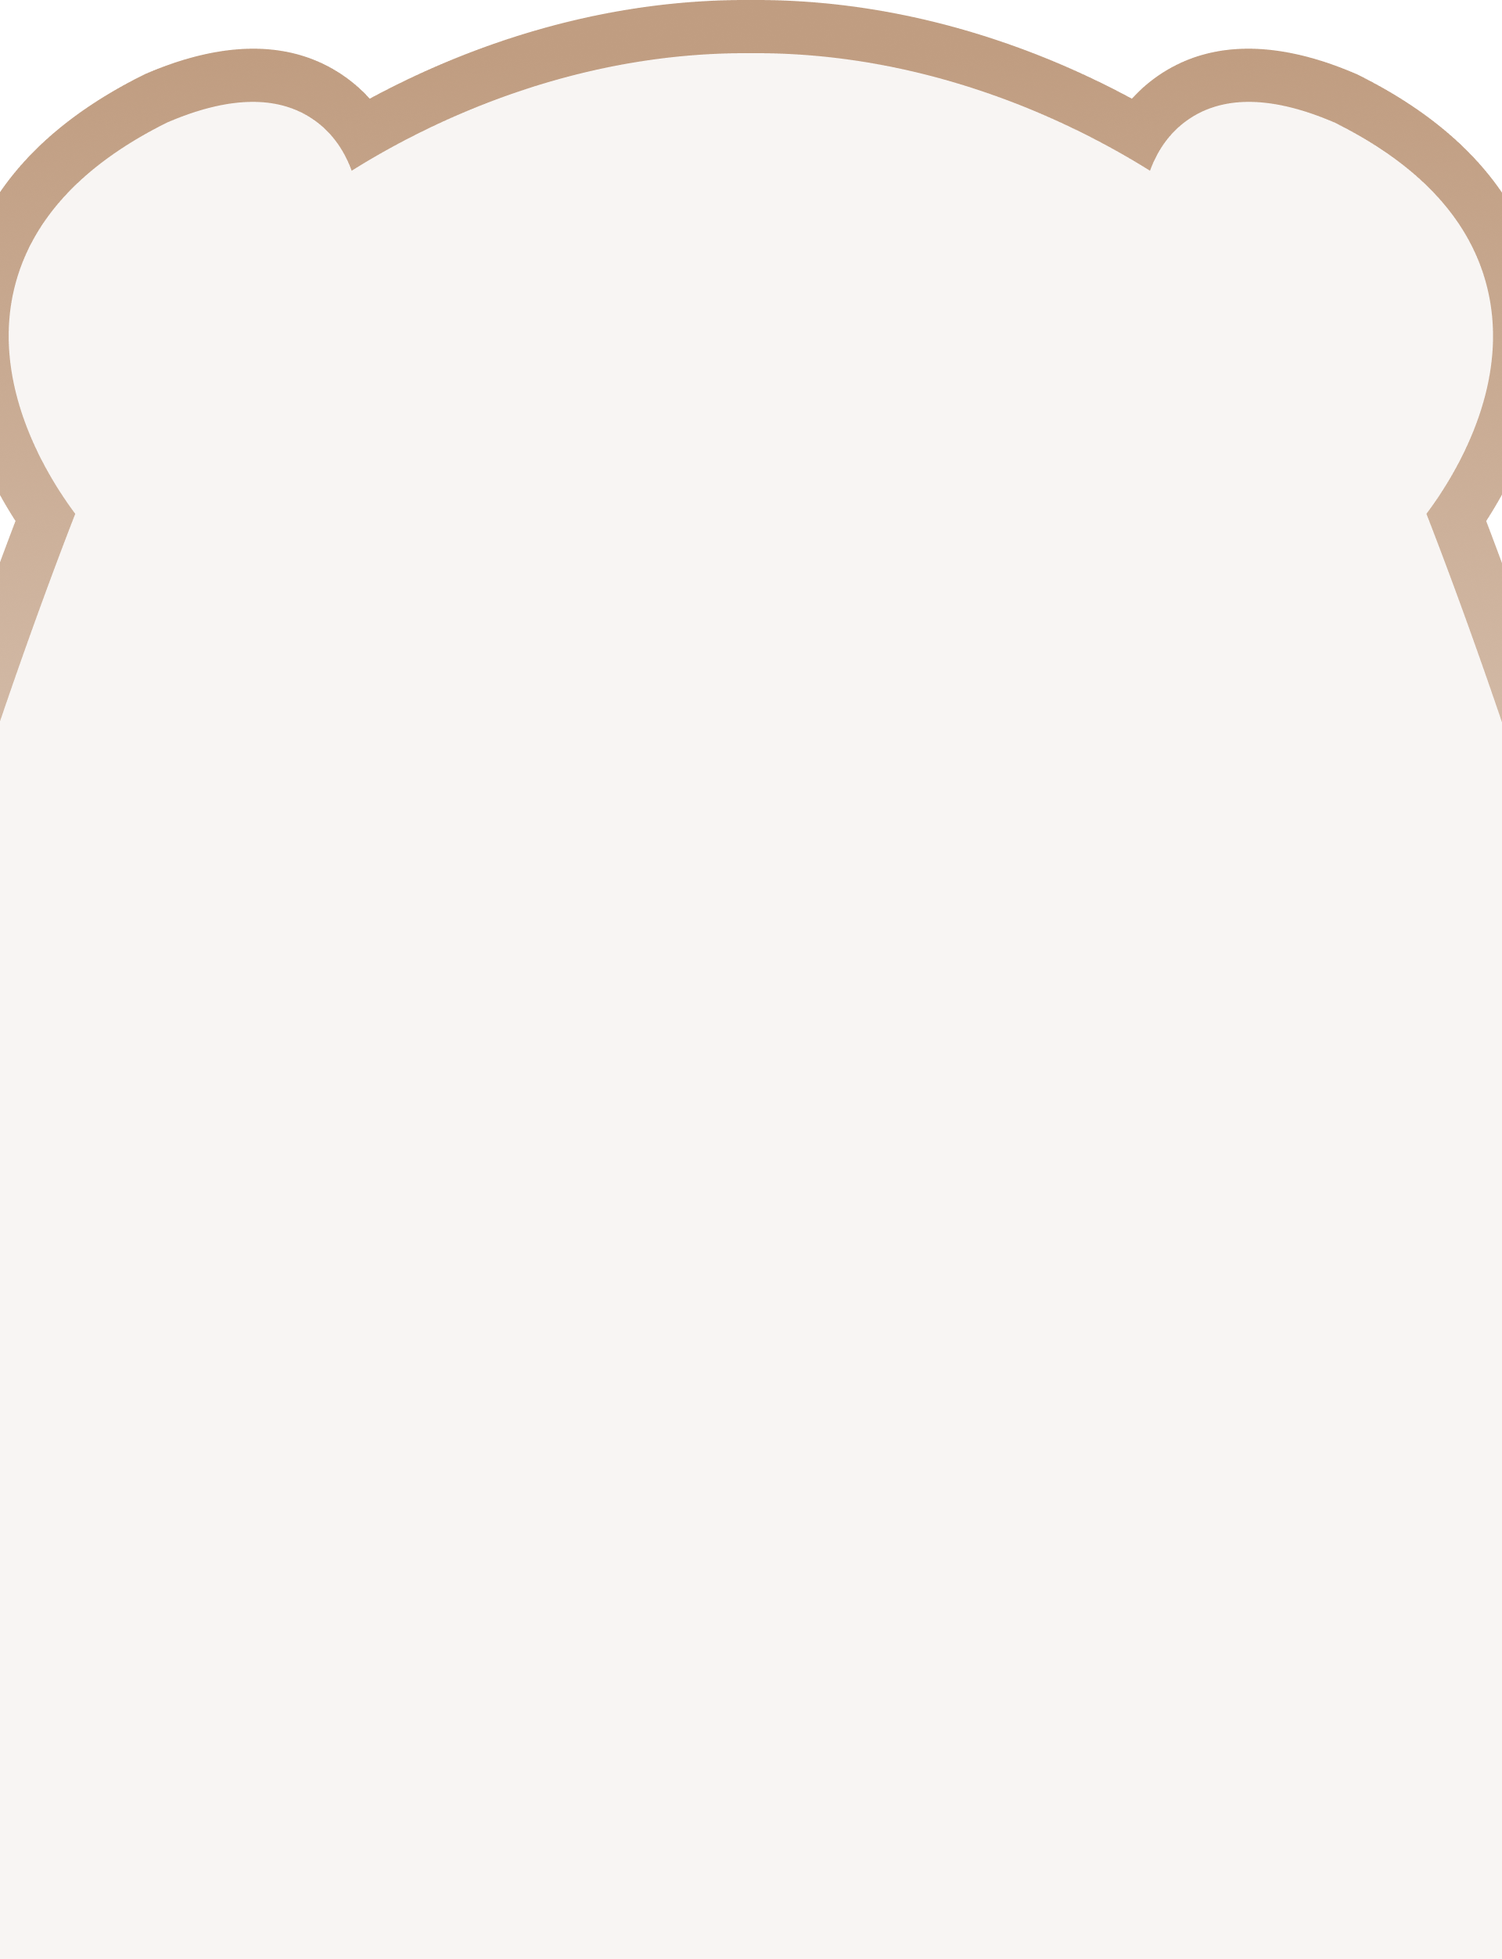
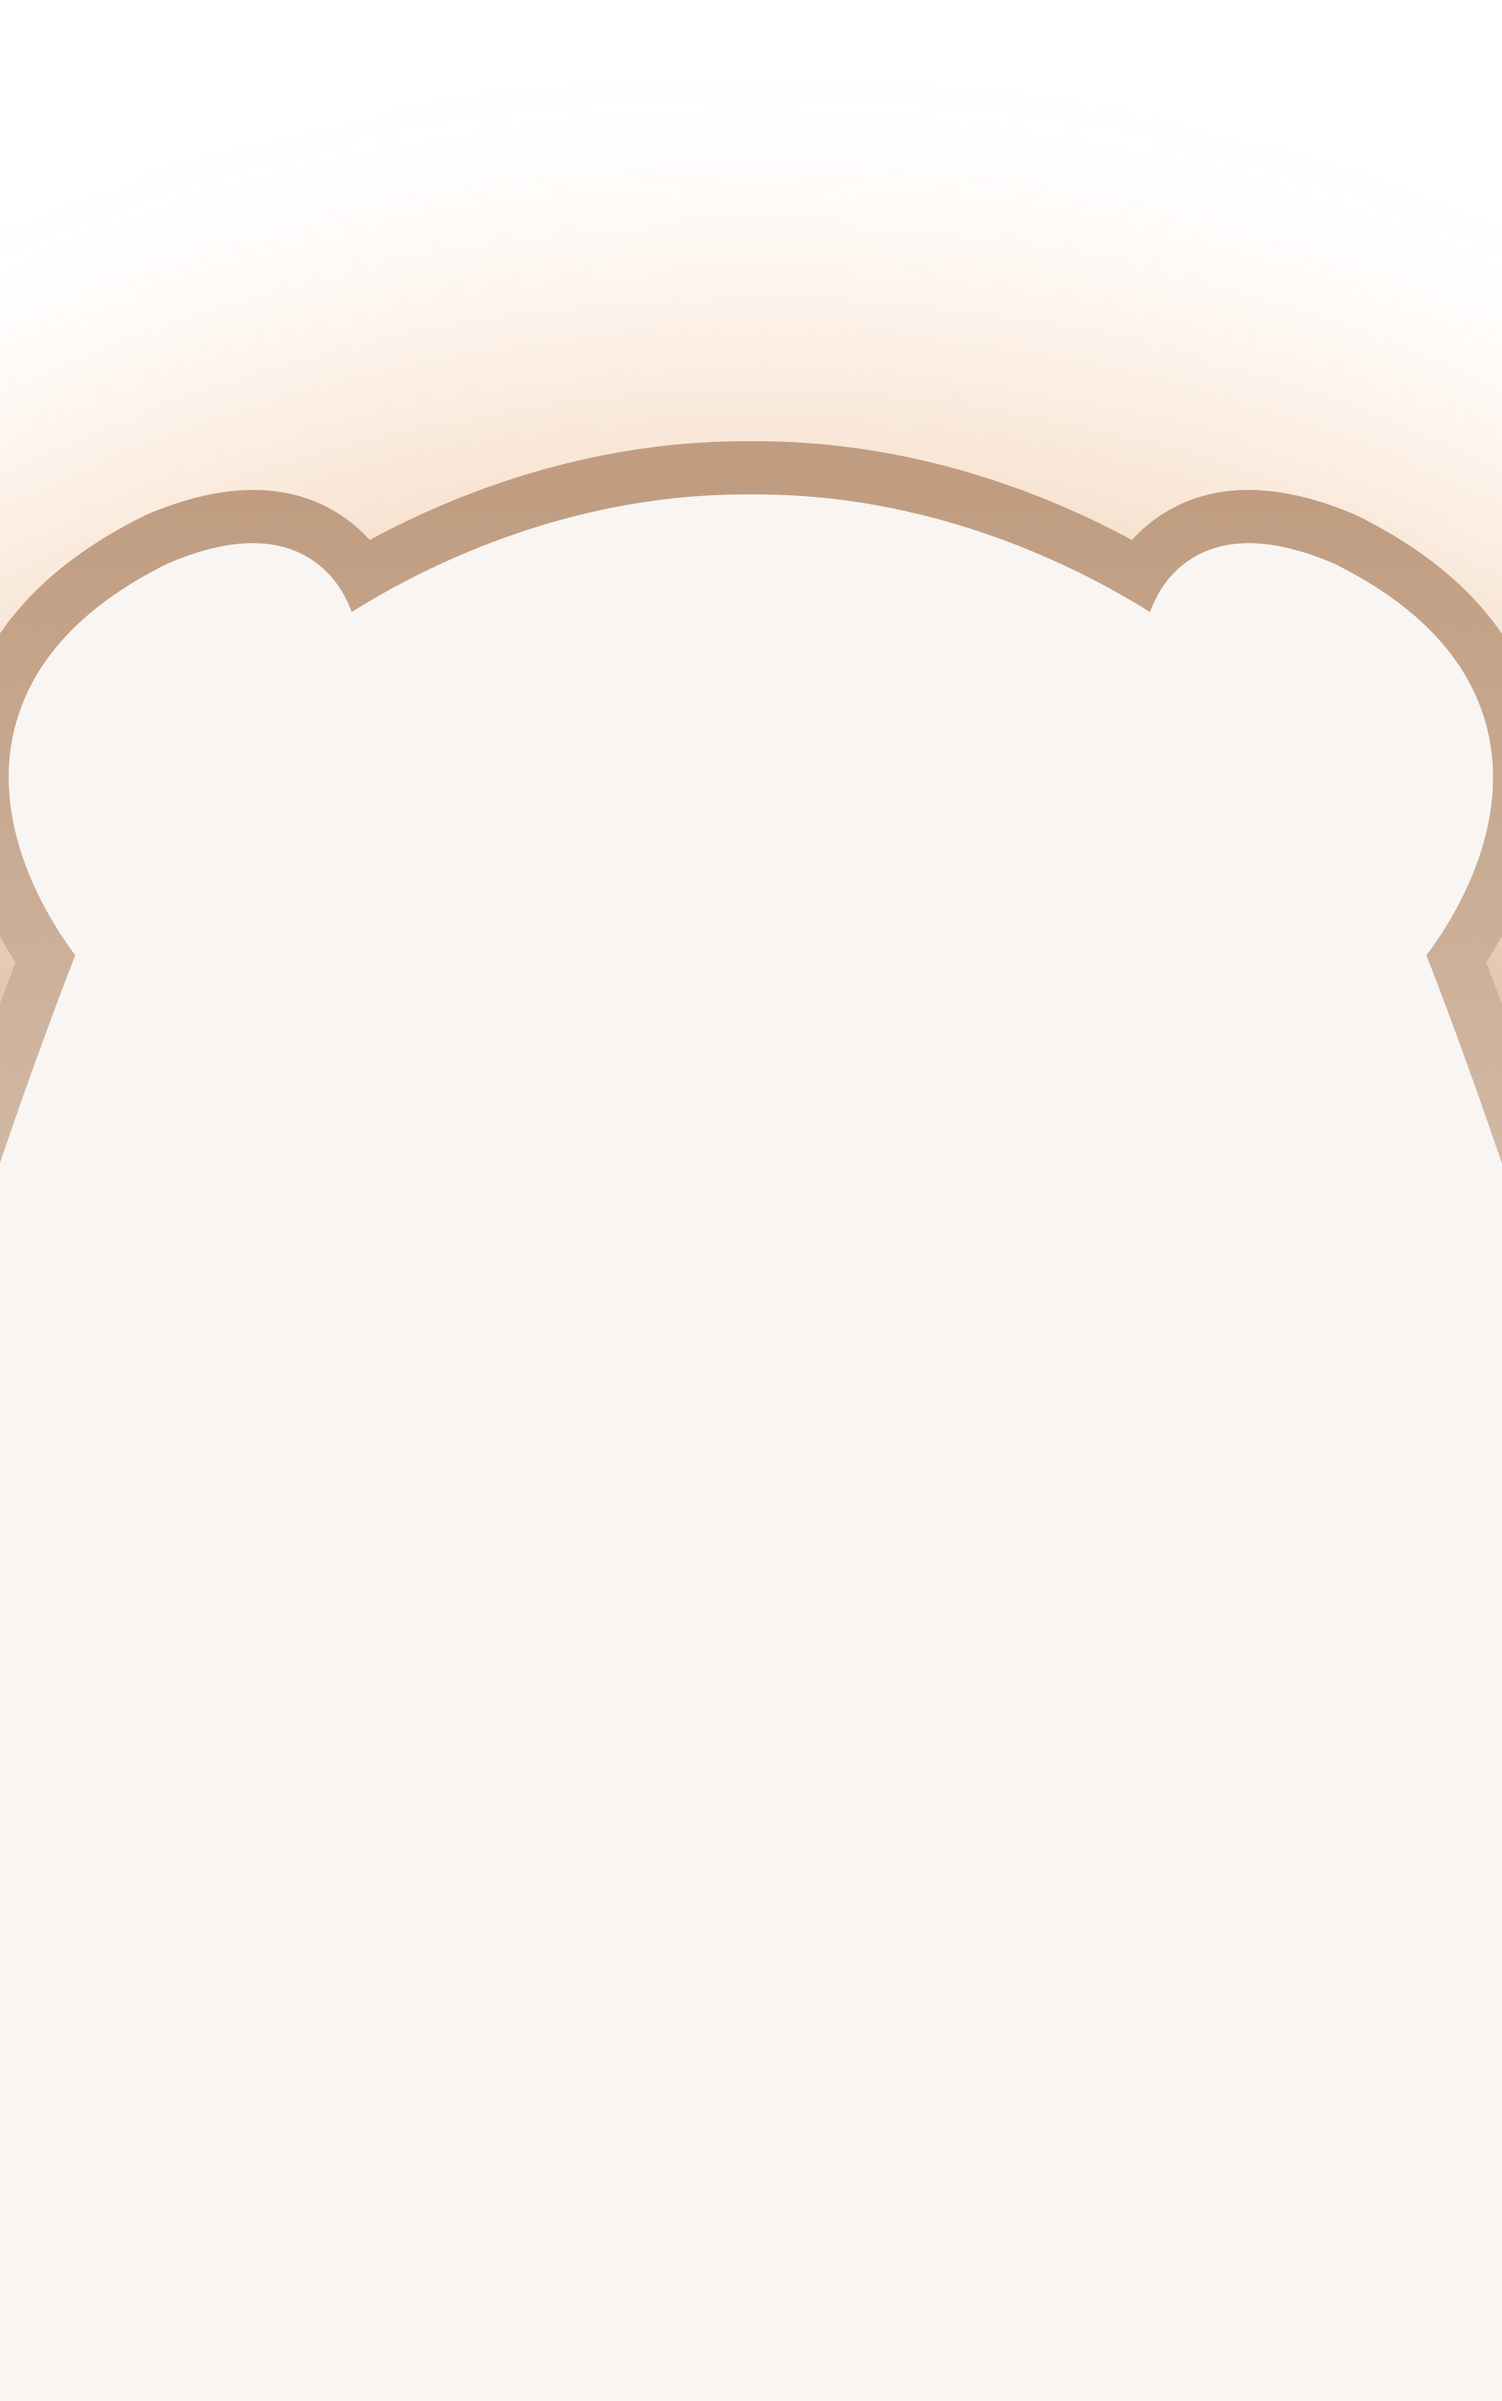
partners

Changed region(s): [[0.0, 0.0, 1.0, 0.4671]]

diff --git a/apps/dapp/src/app/config.tsx b/apps/dapp/src/app/config.tsx
@@ -1,11 +1,18 @@
-import pool from "../assets/graphics/pool.png";
-import rewards from "../assets/graphics/rewards.png";
-import swap from "../assets/graphics/swap.png";
-
-export const siteConfig = {
-  github: "https://github.com/juliusmarminge/acme-corp",
-  twitter: "https://twitter.com/jullerino",
-};
+import pool from "~/assets/graphics/pool.png";
+import rewards from "~/assets/graphics/rewards.png";
+import swap from "~/assets/graphics/swap.png";
+import agora from "~/assets/partners/Agora.png";
+import gumball from "~/assets/partners/Gumball.png";
+import hallsOfOlympia from "~/assets/partners/HallsOfOlympia.png";
+import hiddenHand from "~/assets/partners/HiddenHand.png";
+import midas from "~/assets/partners/Midas.png";
+import olympus from "~/assets/partners/Olympus.png";
+import pickle from "~/assets/partners/Pickle.png";
+import pirex from "~/assets/partners/Pirex.png";
+import qidao from "~/assets/partners/QiDao.png";
+import redacted from "~/assets/partners/Redacted.png";
+import synapse from "~/assets/partners/Synapse.png";
+import y2k from "~/assets/partners/Y2K.png";
 
 export const navItems = [
   {
@@ -38,74 +45,74 @@ export const ctaFeatures = [
 
 export const partnerships = [
   {
-    logoURI: pool,
-    title: "Pool",
+    logoURI: agora,
+    title: "Agora",
     href: "/pool",
     description: "Pool with other people to earn rewards",
   },
   {
-    logoURI: pool,
-    title: "Pool",
+    logoURI: gumball,
+    title: "Gumball",
     href: "/pool",
     description: "Pool with other people to earn rewards",
   },
   {
-    logoURI: pool,
-    title: "Pool",
+    logoURI: hallsOfOlympia,
+    title: "HallsOfOlympia",
     href: "/pool",
     description: "Pool with other people to earn rewards",
   },
   {
-    logoURI: pool,
-    title: "Pool",
+    logoURI: hiddenHand,
+    title: "HiddenHand",
     href: "/pool",
     description: "Pool with other people to earn rewards",
   },
   {
-    logoURI: pool,
-    title: "Pool",
+    logoURI: midas,
+    title: "Midas",
     href: "/pool",
     description: "Pool with other people to earn rewards",
   },
   {
-    logoURI: pool,
-    title: "Pool",
+    logoURI: olympus,
+    title: "Olympus",
     href: "/pool",
     description: "Pool with other people to earn rewards",
   },
   {
-    logoURI: pool,
-    title: "Pool",
+    logoURI: pickle,
+    title: "Pickle",
     href: "/pool",
     description: "Pool with other people to earn rewards",
   },
   {
-    logoURI: pool,
-    title: "Pool",
+    logoURI: pirex,
+    title: "Pirex",
     href: "/pool",
     description: "Pool with other people to earn rewards",
   },
   {
-    logoURI: pool,
-    title: "Pool",
+    logoURI: qidao,
+    title: "QiDao",
     href: "/pool",
     description: "Pool with other people to earn rewards",
   },
   {
-    logoURI: pool,
-    title: "Pool",
+    logoURI: redacted,
+    title: "Redacted",
     href: "/pool",
     description: "Pool with other people to earn rewards",
   },
   {
-    logoURI: pool,
-    title: "Pool",
+    logoURI: synapse,
+    title: "Synapse",
     href: "/pool",
     description: "Pool with other people to earn rewards",
   },
   {
-    logoURI: pool,
-    title: "Pool",
+    logoURI: y2k,
+    title: "Y2K",
     href: "/pool",
     description: "Pool with other people to earn rewards",
   },

diff --git a/apps/dapp/src/app/page.tsx b/apps/dapp/src/app/page.tsx
@@ -98,9 +98,18 @@ export default function Home() {
                 >
                   <Card className="hover:border-border">
                     <CardContent className="flex flex-col items-center justify-center ">
-                      <div className="r-hex">
+                      {/* <div className="r-hex">
                         <div className="r-hex-inner"></div>
+                      </div> */}
+                      <div className="py-4">
+                        <Image
+                          width={150}
+                          height={150}
+                          src={feature.logoURI}
+                          alt={feature.title}
+                        />
                       </div>
+
                       <p className="font-bold text-foreground">
                         {feature.title}
                       </p>

diff --git a/apps/dapp/src/styles/globals.css b/apps/dapp/src/styles/globals.css
@@ -139,6 +139,6 @@ input[type="number"] {
 }
 
 .home-background {
-  background-position-y: calc(100vh - 50vh);
+  background-position-y: 10vh;
   background-position-x: center;
 }
